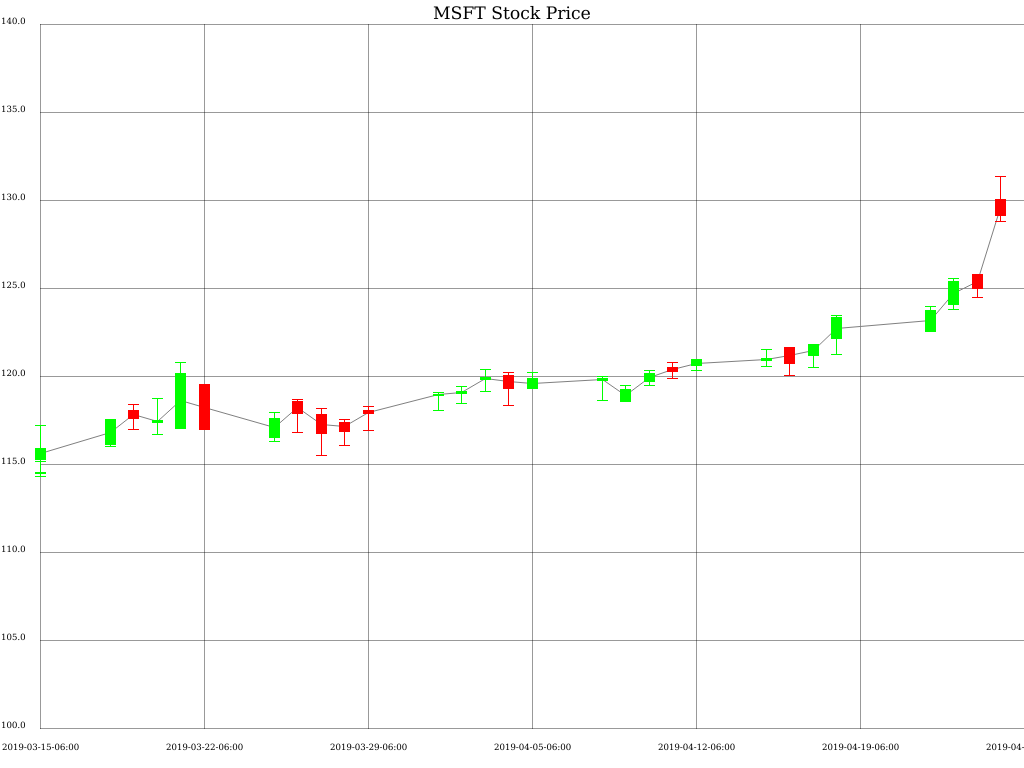
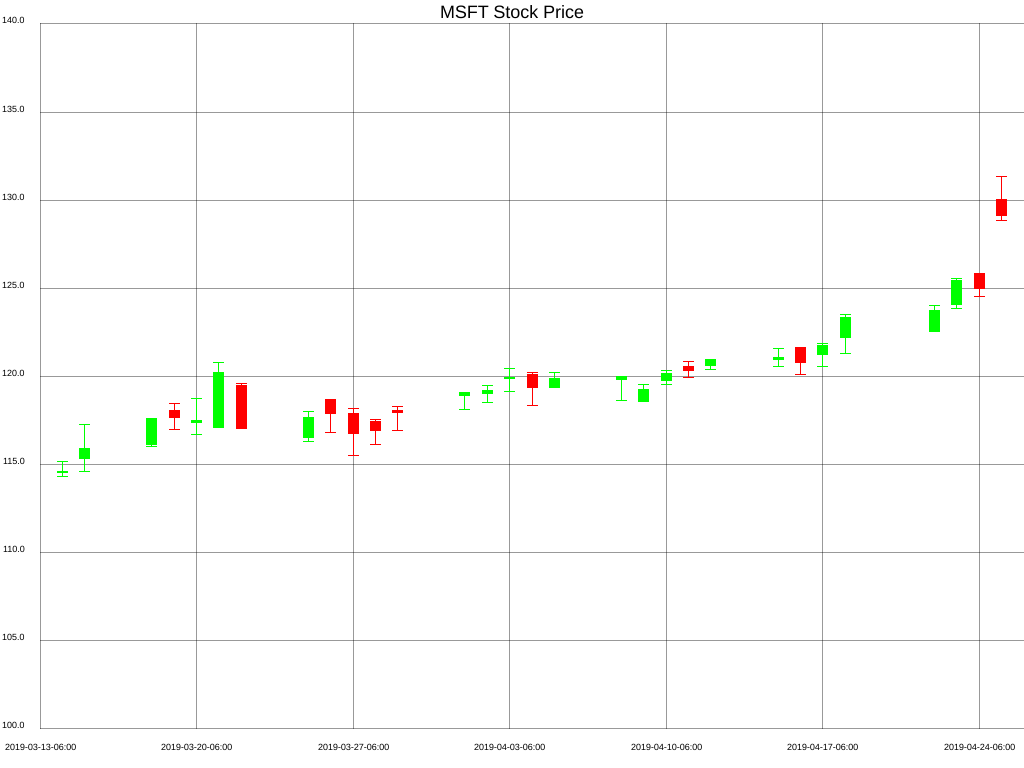
Update

diff --git a/examples/stock.rs b/examples/stock.rs
@@ -17,7 +17,7 @@ fn main() -> Result<(), Box<dyn std::error::Error>> {
 
     let (to_date, from_date) = (
         parse_time(&data[0].0) + Duration::days(1),
-        parse_time(&data[29].0) + Duration::days(1),
+        parse_time(&data[29].0) - Duration::days(1),
     );
 
     let mut chart = ChartBuilder::on(&root)
@@ -30,10 +30,6 @@ fn main() -> Result<(), Box<dyn std::error::Error>> {
 
     chart.configure_mesh().line_style_2(&style).draw()?;
 
-    chart.draw_series(LineSeries::new(
-        data.iter().map(|x| (parse_time(x.0), (x.1 + x.4) / 2.0)),
-        &RGBColor(128, 128, 128),
-    ))?;
     chart.draw_series(data.iter().map(|x| {
         CandleStick::<_, _>::new::<&RGBColor, &RGBColor>(
             parse_time(x.0),

diff --git a/src/chart.rs b/src/chart.rs
@@ -171,13 +171,13 @@ where
     Y: Ranged,
     DB: DrawingBackend,
 {
-    /// Set how many labels for the X axis
+    /// Set how many labels for the X axis at most
     pub fn x_labels(&mut self, value: usize) -> &mut Self {
         self.n_x_labels = value;
         return self;
     }
 
-    /// Set how many label for the Y axis
+    /// Set how many label for the Y axis at most
     pub fn y_labels(&mut self, value: usize) -> &mut Self {
         self.n_y_labels = value;
         return self;

diff --git a/src/lib.rs b/src/lib.rs
@@ -225,4 +225,10 @@ pub mod prelude {
     pub use crate::element::{
         CandleStick, Circle, Cross, EmptyElement, OwnedText, Path, Rectangle, Text,
     };
+
+    #[allow(type_alias_bounds)]
+    /// The type used to returns a drawing operation that can be failed
+    /// - `T`: The return type
+    /// - `D`: The drawing backend type
+    pub type DrawResult<T, D:DrawingBackend>=Result<T, crate::drawing::DrawingAreaErrorKind<D::ErrorType>>;
 }
